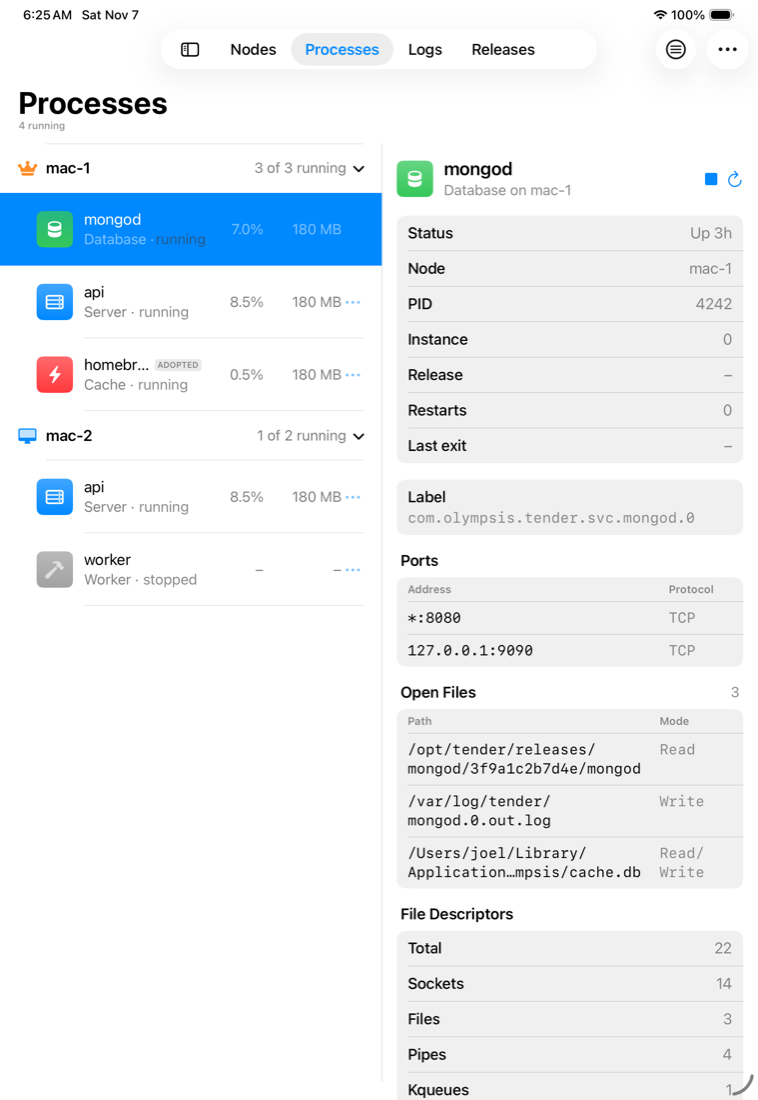
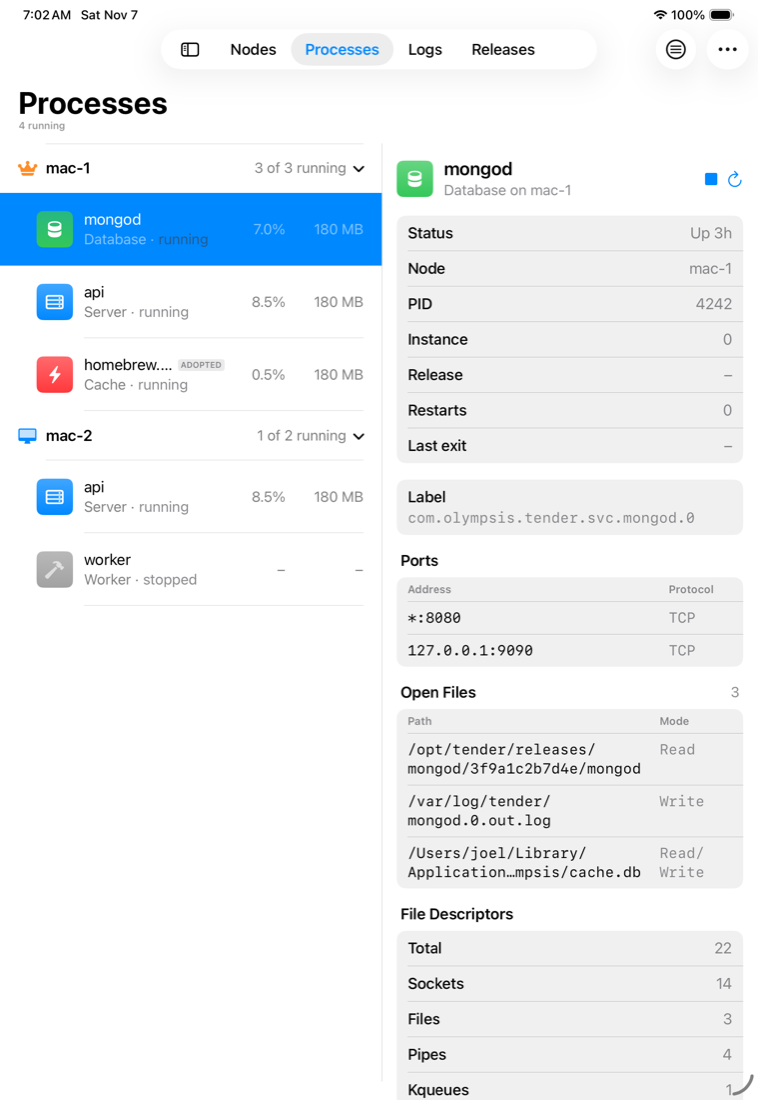
TenderApp iOS: process rows use the long-press menu too
One RowLayout.showsMenuButton switch for node and process rows; the Mac
keeps its … buttons.

diff --git a/App/TenderApp/ListRows.swift b/App/TenderApp/ListRows.swift
@@ -33,6 +33,12 @@ enum RowLayout {
     static let textLeading = artwork + spacing
     /// Hit area of the icon buttons at the end of a row, so they space evenly.
     static let button: CGFloat = 24
+    /// A "…" button at the end of a row on the Mac; on iOS the actions are the row's long-press menu.
+    #if os(macOS)
+    static let showsMenuButton = true
+    #else
+    static let showsMenuButton = false
+    #endif
 }
 
 /// An icon button at the end of a row, the same size as its neighbours.
@@ -148,15 +154,8 @@ struct NodeTrackRow: View {
     var remove: (() -> Void)?
     @Environment(\.isCompactWidth) private var isCompactWidth
 
-    /// On iOS a node's actions are its long-press menu, which leaves the row to its stats and chevron.
-    #if os(macOS)
-    private static let showsMenuButton = true
-    #else
-    private static let showsMenuButton = false
-    #endif
-
     var body: some View {
-        TrackRow(title: node.info.displayName, showsMenuButton: Self.showsMenuButton) {
+        TrackRow(title: node.info.displayName, showsMenuButton: RowLayout.showsMenuButton) {
             RowArtwork(symbol: node.info.isHead ? "crown.fill" : "desktopcomputer",
                        tint: node.info.isHead ? .orange : .blue, active: node.up)
                 .help(node.info.isHead ? "Head" : "Worker")
@@ -270,7 +269,8 @@ struct ProcessTrackRow: View {
 
     var body: some View {
         let kind = process.resolvedKind
-        TrackRow(title: showsInstance ? "\(process.service) #\(process.instance)" : process.service) {
+        TrackRow(title: showsInstance ? "\(process.service) #\(process.instance)" : process.service,
+                 showsMenuButton: RowLayout.showsMenuButton) {
             RowArtwork(symbol: kind.symbol, tint: kind.tint, active: process.state == .running)
                 .help(kind.title)
         } badges: {
